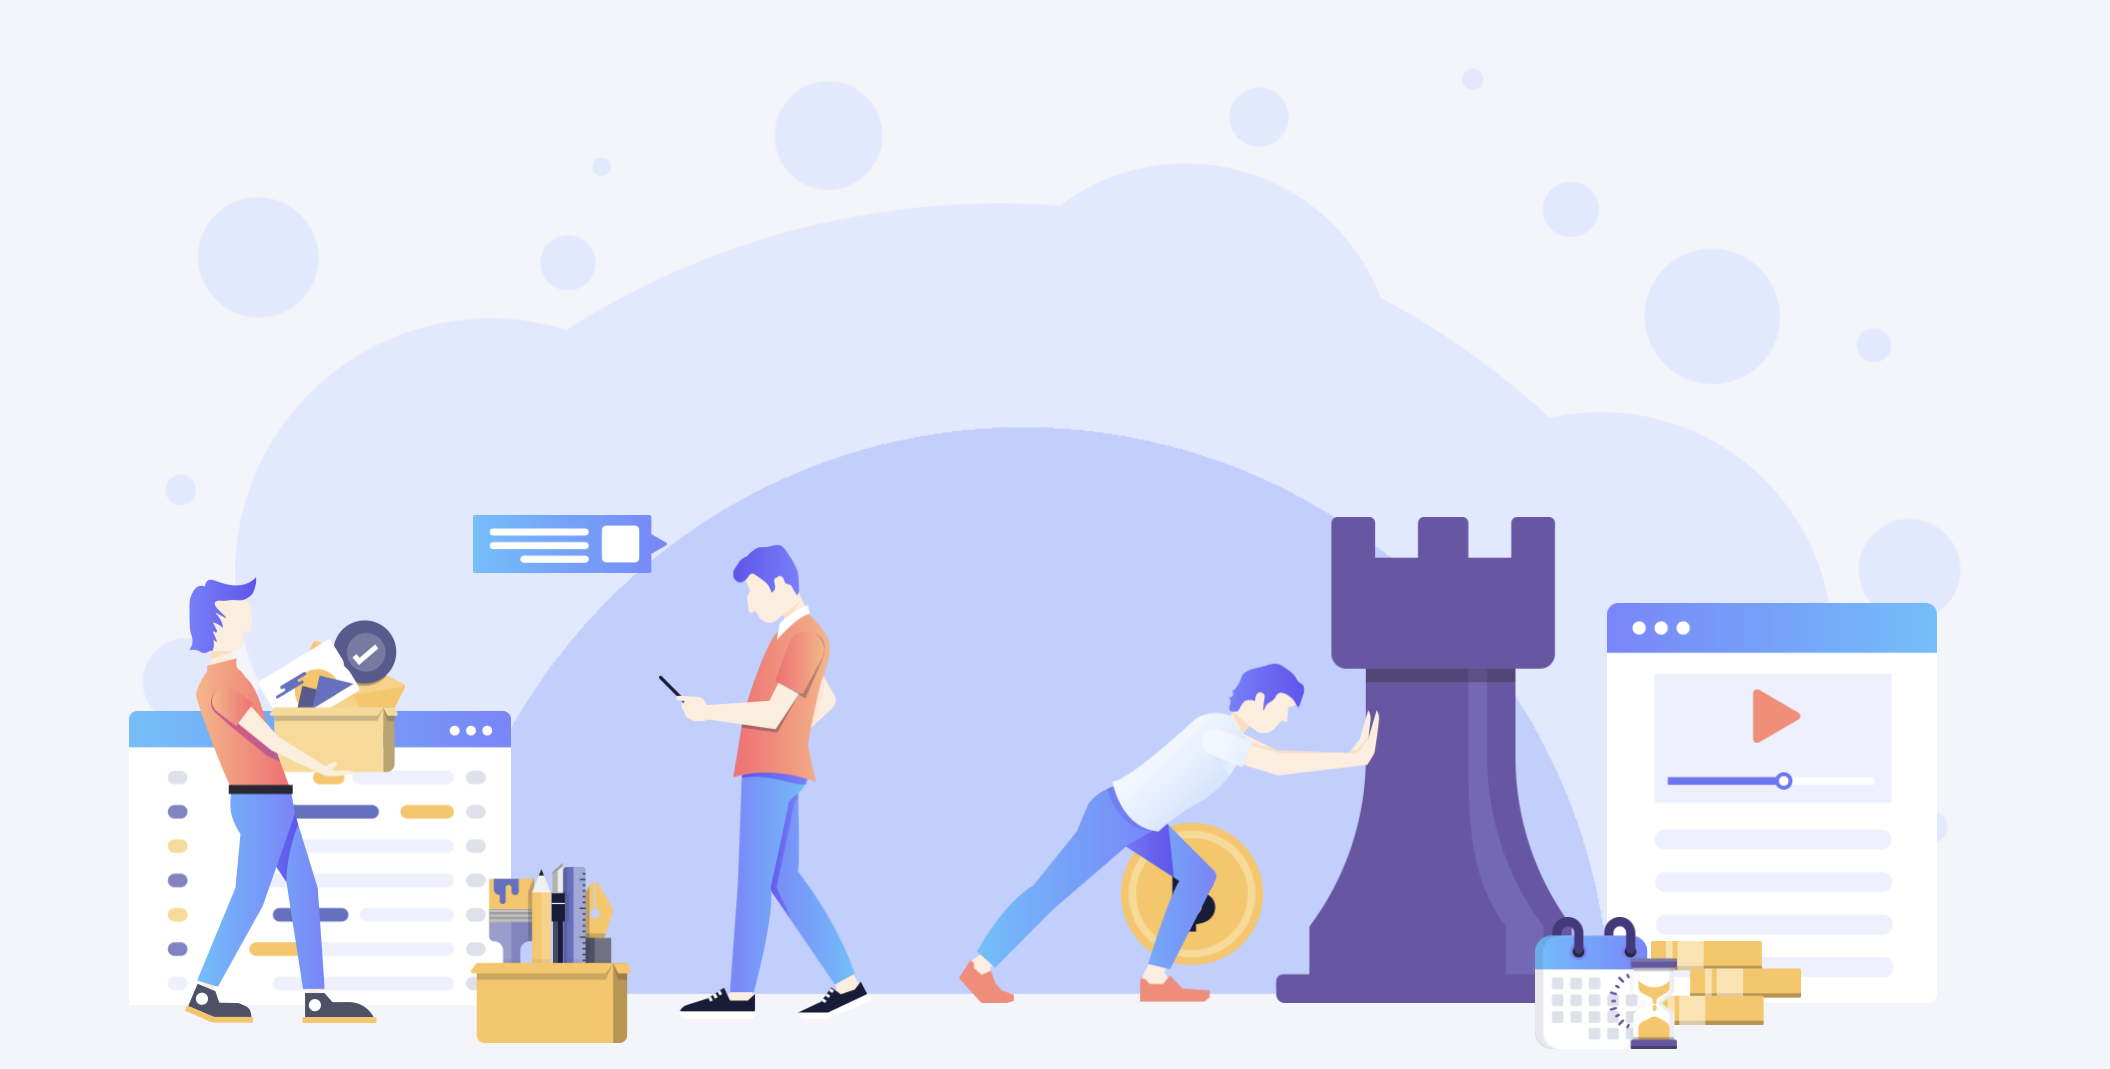
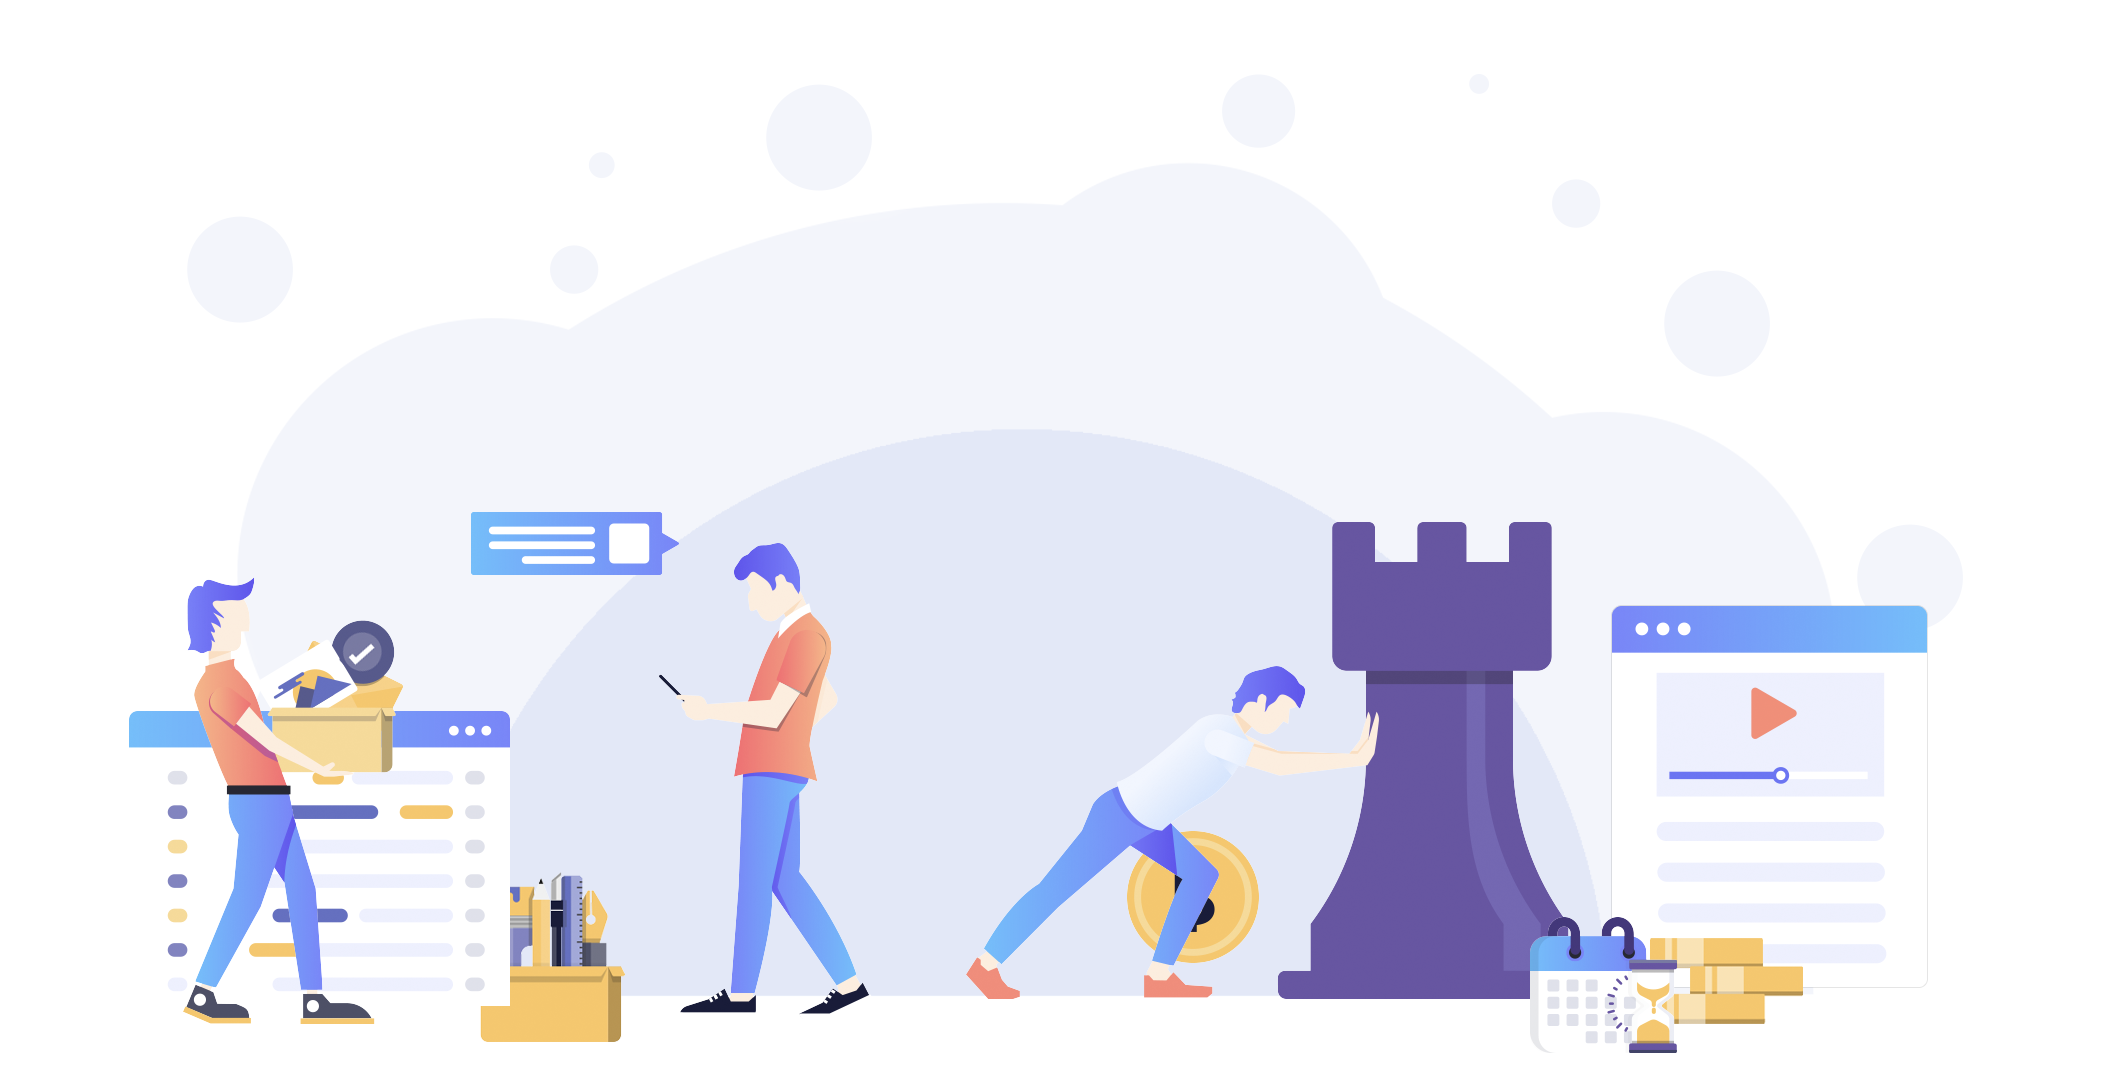
home page updated

diff --git a/index-beta.html b/index-beta.html
@@ -41,7 +41,7 @@
     </div> -->
 
     <div class="navbar-container">
-            <nav class="navbar navbar-expand-lg justify-content-between navbar-light border-bottom-0 bg-primary-alt" data-sticky="top">
+            <nav class="navbar navbar-expand-lg justify-content-between navbar-light border-bottom-0 bg-white" data-sticky="top">
                     <div class="container">
                       <div class="col flex-fill px-0 d-flex justify-content-between">
                         <a class="navbar-brand mr-0" href="index.html">
@@ -119,7 +119,7 @@
                   </nav>
     </div>
 
-    <section class="bg-primary-alt text-center header-desktop-app">
+    <section class="bg-white text-center header-desktop-app">
       <div class="container">
         <div class="row justify-content-center mt-n-8">
           <div class="col-xl-12 col-lg-8 col-md-9">
@@ -143,7 +143,7 @@
     </section>
 
 
-    <section style="padding-top:100px;">
+    <section class="bg-primary-alt" style="padding-top:100px;">
       <div class="container">
         <div class="row justify-content-around align-items-center">
           <div class="col-md-10">
@@ -168,7 +168,7 @@
       </div>
     </section>
 
-    <section class="bg-primary-alt">
+    <section class="bg-white">
       <div class="container">
         <div class="row justify-content-around align-items-center">
           <div class="col-md-10">
@@ -190,7 +190,7 @@
       </div>
     </section>
 
-    <section>
+    <section class="bg-primary-alt">
       <div class="container">
 
         <div class="row justify-content-around align-items-center">
@@ -217,7 +217,7 @@
     </section>
 
 
-    <section class="bg-primary-alt">
+    <section>
       <div class="container">
         <div class="row justify-content-around align-items-center">
           <div class="col-md-10">
@@ -239,7 +239,7 @@
       </div>
     </section>
 
-    <section class="bg-white">
+    <section class="bg-primary-alt">
       <div class="container">
           <div class="row mb-4">
             <div class="col">
@@ -252,7 +252,7 @@
                   <img class="icon-round icon-lg mb-3 mb-md-4" src="v3/assets/img/mong/teamwork-benefit-3.svg" alt="icon">
                 <h4 class="lh-2 text-center">Secure <br>collaboration</h4>
                 <p class="text-center"> 
-                  Enhanced data security through encryption and restricted content sharing.
+                  Designed for simple and secure messaging & file sharing to help protect intellectual property.
                 </p>
               </div>
             </div>
@@ -261,7 +261,7 @@
                   <img class="icon-round icon-lg mb-3 mb-md-4" src="v3/assets/img/mong/key-feature-2.svg" alt="icon">
                 <h4 class="lh-2 text-center">Blockchain <br>assets</h4>
                 <p class="text-center">
-                Store, issue your data centralize in block chain technology and validate anytime.
+                  Issue and verify digital credentials that are authentic, tamper-proof and audit-able.
                 </p>          
               </div>
             </div>
@@ -270,7 +270,7 @@
                   <img class="icon-round icon-lg mb-3 mb-md-4" src="v3/assets/img/mong/key-feature-3.svg" alt="icon">
                 <h4 class="lh-2 text-center">Instantification data platform</h4>
                 <p class="text-center">
-                  View any kind of data <br>immediately without delay for better performance.
+                  Helping business to extract valuable information and trends from instant data.
                 </p>            
               </div>
             </div>
@@ -282,7 +282,7 @@
 
     
 
-  <section class="bg-primary-alt">
+  <section class="bg-white">
       <div class="container">
         <div class="row justify-content-between align-items-center">
           
@@ -403,7 +403,7 @@
     </section>
 
 
-    <section id="awards">
+    <section class="bg-primary-alt" id="awards">
       <div class="container pt-5">
         <div class="row justify-content-between align-items-center o-hidden">
             <div class="col-lg-6 text-center text-md-left" data-aos="fade-right" data-aos-delay="100">
@@ -436,7 +436,7 @@
       <img src="v3/assets/img/mong/abs-taskboard.svg" style="opacity: 0.5;" alt="Image" class="jarallax-img">
       <div class="divider flip-y">
         <svg width="100%" height="100%" version="1.1" viewBox="0 0 100 100" xmlns="http://www.w3.org/2000/svg" xmlns:xlink="http://www.w3.org/1999/xlink" preserveAspectRatio="none">
-          <path d="M0,0 C6.83050094,50 15.1638343,75 25,75 C41.4957514,75 62.4956597,0 81.2456597,0 C93.7456597,0 99.9971065,0 100,0 L100,100 L0,100" style="fill: #ffffff;"></path>
+          <path d="M0,0 C6.83050094,50 15.1638343,75 25,75 C41.4957514,75 62.4956597,0 81.2456597,0 C93.7456597,0 99.9971065,0 100,0 L100,100 L0,100" style="fill: #F3F5FB;"></path>
         </svg>
       </div>
       <div class="container">
